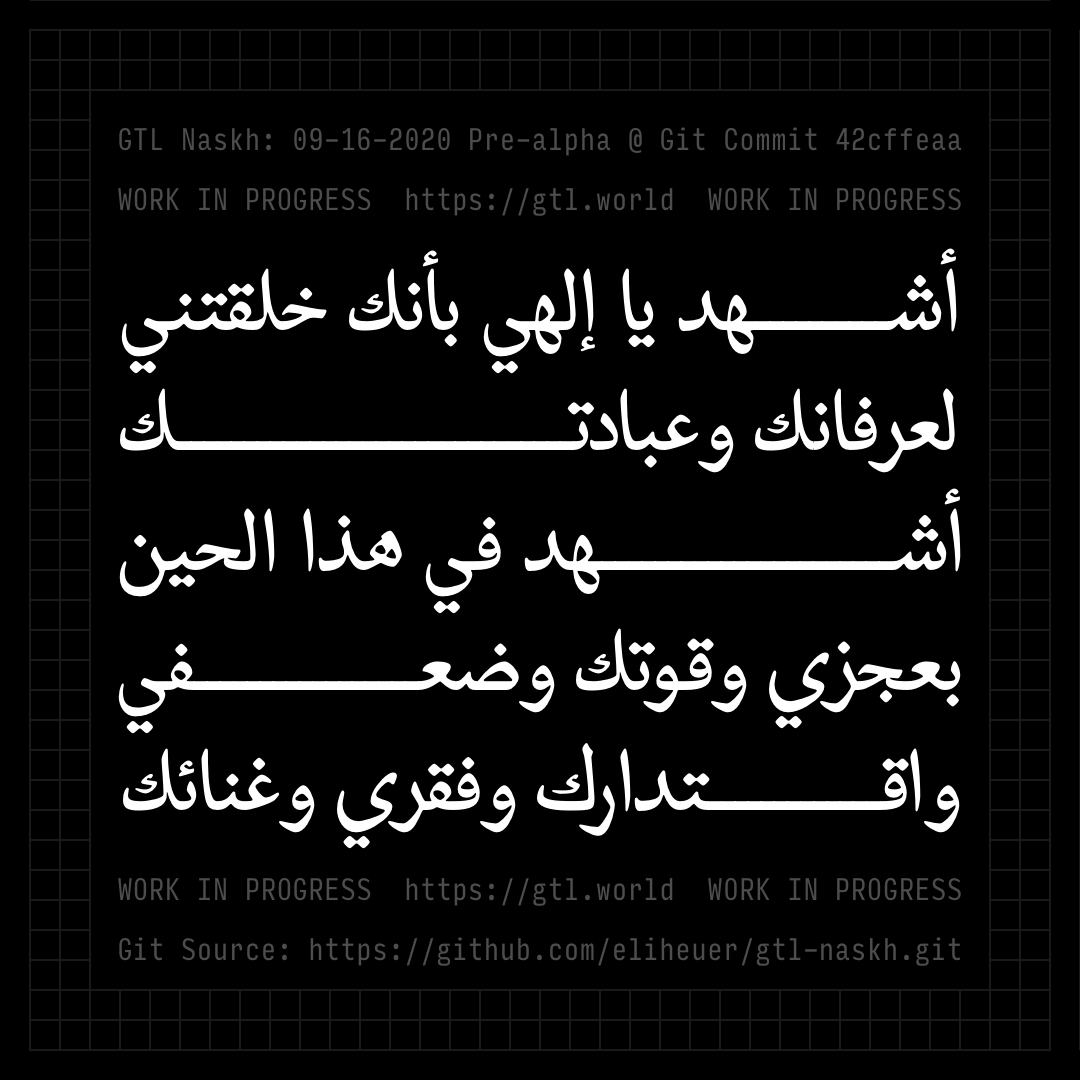
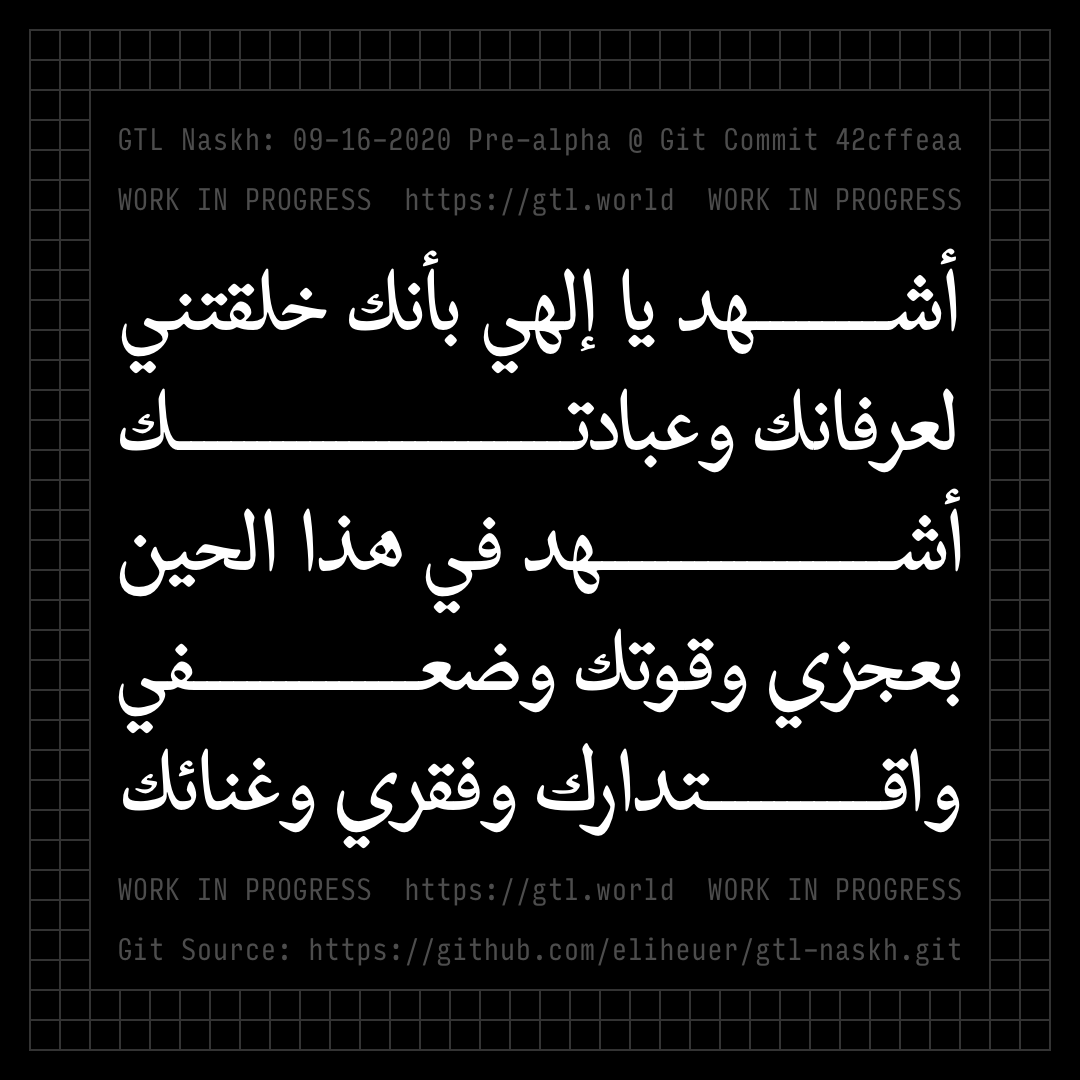
Update specimens and DrawBot source

Changed region(s): [[0.0306, 0.0306, 0.9778, 0.9778]]

diff --git a/documentation/instagram/salah-1.py b/documentation/instagram/salah-1.py
@@ -11,15 +11,15 @@ U = 30    # Unit (Grid Unit)
 # DRAWS A GRID
 def grid():
     strokeWidth(2)
-    stroke(0.1)
+    stroke(0.2)
     step_X = 0
     step_Y = 0
     increment_X = U
     increment_Y = U
-    for x in range(36):
+    for x in range(34):
         polygon( (M+step_X, M), (M+step_X, H-M) )
         step_X += increment_X
-    for y in range(36):
+    for y in range(34):
         polygon( (M, M+step_Y), (W-M, M+step_Y) )
         step_Y += increment_Y
     fill(None)
@@ -37,7 +37,7 @@ def new_page():
 new_page()
 grid() # Toggle for grid view
 
-stroke(0.1)
+stroke(0.2)
 fill(0)
 rect(M*3,M*3, M*30, M*30)
 stroke(None)
